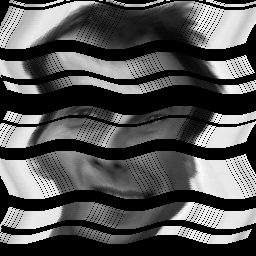
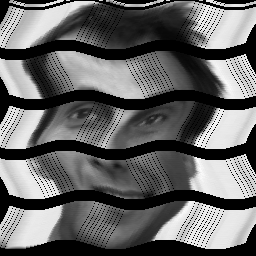
slight improvements in forward warping

diff --git a/ex1/src/main/java/image/processing/warping/ForwardWarp.java b/ex1/src/main/java/image/processing/warping/ForwardWarp.java
@@ -28,7 +28,7 @@ public class ForwardWarp implements ImageAlgorithm {
 
     //TODO: Blatt 2, Aufgabe 3 b)
 
-    for (int y = 0; y < img.rows(); y += 3) {
+    for (int y = 0; y < img.rows(); y++) {
       for (int x = 0; x < img.cols(); x++) {
         // get colors
         RGBA colorA = img.get(x, y);
